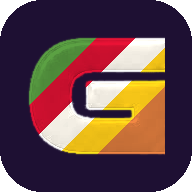
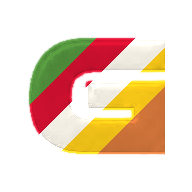
Icono de la pestaña con fondo transparente
Claude-Session: https://claude.ai/code/session_01BAWG5sSexxeV32VypvJQZo

diff --git a/donde-se-sirve.html b/donde-se-sirve.html
@@ -22,8 +22,8 @@
   <meta name="twitter:title" content="¿Dónde se sirve? · Viernes de Gusto">
   <meta name="twitter:description" content="El DJ en el centro y todos alrededor. Uno de cada dos viernes en New La Miel, Burgos.">
   <meta name="twitter:image" content="https://www.gustoexperience.es/og-image.png?v=4">
-  <link rel="icon" href="favicon-32.png?v=4" sizes="32x32" type="image/png">
-  <link rel="icon" href="icon-192.png?v=4" sizes="192x192" type="image/png">
+  <link rel="icon" href="favicon-32.png?v=5" sizes="32x32" type="image/png">
+  <link rel="icon" href="icon-192.png?v=5" sizes="192x192" type="image/png">
   <link rel="apple-touch-icon" href="apple-touch-icon.png?v=4">
   <link rel="preload" href="fonts/shrikhand-latin-400-normal.woff2" as="font" type="font/woff2" crossorigin>
   <link rel="preload" href="fonts/familjen-grotesk-latin-400-normal.woff2" as="font" type="font/woff2" crossorigin>

diff --git a/como-se-sirve.html b/como-se-sirve.html
@@ -22,8 +22,8 @@
   <meta name="twitter:title" content="Cómo se sirve · Viernes de Gusto">
   <meta name="twitter:description" content="El DJ en el centro y todos alrededor. Uno de cada dos viernes en New La Miel, Burgos.">
   <meta name="twitter:image" content="https://www.gustoexperience.es/og-image.png?v=4">
-  <link rel="icon" href="favicon-32.png?v=4" sizes="32x32" type="image/png">
-  <link rel="icon" href="icon-192.png?v=4" sizes="192x192" type="image/png">
+  <link rel="icon" href="favicon-32.png?v=5" sizes="32x32" type="image/png">
+  <link rel="icon" href="icon-192.png?v=5" sizes="192x192" type="image/png">
   <link rel="apple-touch-icon" href="apple-touch-icon.png?v=4">
   <link rel="preload" href="fonts/shrikhand-latin-400-normal.woff2" as="font" type="font/woff2" crossorigin>
   <link rel="preload" href="fonts/familjen-grotesk-latin-400-normal.woff2" as="font" type="font/woff2" crossorigin>

diff --git a/haz-tu-pedido.html b/haz-tu-pedido.html
@@ -22,8 +22,8 @@
   <meta name="twitter:title" content="Haz tu pedido · Viernes de Gusto">
   <meta name="twitter:description" content="El DJ en el centro y todos alrededor. Uno de cada dos viernes en New La Miel, Burgos.">
   <meta name="twitter:image" content="https://www.gustoexperience.es/og-image.png?v=4">
-  <link rel="icon" href="favicon-32.png?v=4" sizes="32x32" type="image/png">
-  <link rel="icon" href="icon-192.png?v=4" sizes="192x192" type="image/png">
+  <link rel="icon" href="favicon-32.png?v=5" sizes="32x32" type="image/png">
+  <link rel="icon" href="icon-192.png?v=5" sizes="192x192" type="image/png">
   <link rel="apple-touch-icon" href="apple-touch-icon.png?v=4">
   <link rel="preload" href="fonts/shrikhand-latin-400-normal.woff2" as="font" type="font/woff2" crossorigin>
   <link rel="preload" href="fonts/familjen-grotesk-latin-400-normal.woff2" as="font" type="font/woff2" crossorigin>

diff --git a/menu-del-mes.html b/menu-del-mes.html
@@ -22,8 +22,8 @@
   <meta name="twitter:title" content="Menú del mes · Viernes de Gusto">
   <meta name="twitter:description" content="El DJ en el centro y todos alrededor. Uno de cada dos viernes en New La Miel, Burgos.">
   <meta name="twitter:image" content="https://www.gustoexperience.es/og-image.png?v=4">
-  <link rel="icon" href="favicon-32.png?v=4" sizes="32x32" type="image/png">
-  <link rel="icon" href="icon-192.png?v=4" sizes="192x192" type="image/png">
+  <link rel="icon" href="favicon-32.png?v=5" sizes="32x32" type="image/png">
+  <link rel="icon" href="icon-192.png?v=5" sizes="192x192" type="image/png">
   <link rel="apple-touch-icon" href="apple-touch-icon.png?v=4">
   <link rel="preload" href="fonts/shrikhand-latin-400-normal.woff2" as="font" type="font/woff2" crossorigin>
   <link rel="preload" href="fonts/familjen-grotesk-latin-400-normal.woff2" as="font" type="font/woff2" crossorigin>

diff --git a/preguntas.html b/preguntas.html
@@ -22,8 +22,8 @@
   <meta name="twitter:title" content="Preguntas · Viernes de Gusto">
   <meta name="twitter:description" content="El DJ en el centro y todos alrededor. Uno de cada dos viernes en New La Miel, Burgos.">
   <meta name="twitter:image" content="https://www.gustoexperience.es/og-image.png?v=4">
-  <link rel="icon" href="favicon-32.png?v=4" sizes="32x32" type="image/png">
-  <link rel="icon" href="icon-192.png?v=4" sizes="192x192" type="image/png">
+  <link rel="icon" href="favicon-32.png?v=5" sizes="32x32" type="image/png">
+  <link rel="icon" href="icon-192.png?v=5" sizes="192x192" type="image/png">
   <link rel="apple-touch-icon" href="apple-touch-icon.png?v=4">
   <link rel="preload" href="fonts/shrikhand-latin-400-normal.woff2" as="font" type="font/woff2" crossorigin>
   <link rel="preload" href="fonts/familjen-grotesk-latin-400-normal.woff2" as="font" type="font/woff2" crossorigin>

diff --git a/la-carta.html b/la-carta.html
@@ -22,8 +22,8 @@
   <meta name="twitter:title" content="La Carta · Viernes de Gusto">
   <meta name="twitter:description" content="El DJ en el centro y todos alrededor. Uno de cada dos viernes en New La Miel, Burgos.">
   <meta name="twitter:image" content="https://www.gustoexperience.es/og-image.png?v=4">
-  <link rel="icon" href="favicon-32.png?v=4" sizes="32x32" type="image/png">
-  <link rel="icon" href="icon-192.png?v=4" sizes="192x192" type="image/png">
+  <link rel="icon" href="favicon-32.png?v=5" sizes="32x32" type="image/png">
+  <link rel="icon" href="icon-192.png?v=5" sizes="192x192" type="image/png">
   <link rel="apple-touch-icon" href="apple-touch-icon.png?v=4">
   <link rel="preload" href="fonts/shrikhand-latin-400-normal.woff2" as="font" type="font/woff2" crossorigin>
   <link rel="preload" href="fonts/familjen-grotesk-latin-400-normal.woff2" as="font" type="font/woff2" crossorigin>

diff --git a/index.html b/index.html
@@ -22,8 +22,8 @@
   <meta name="twitter:title" content="Viernes de Gusto · New La Miel, Burgos">
   <meta name="twitter:description" content="El DJ en el centro y todos alrededor. Uno de cada dos viernes en New La Miel, Burgos.">
   <meta name="twitter:image" content="https://www.gustoexperience.es/og-image.png?v=4">
-  <link rel="icon" href="favicon-32.png?v=4" sizes="32x32" type="image/png">
-  <link rel="icon" href="icon-192.png?v=4" sizes="192x192" type="image/png">
+  <link rel="icon" href="favicon-32.png?v=5" sizes="32x32" type="image/png">
+  <link rel="icon" href="icon-192.png?v=5" sizes="192x192" type="image/png">
   <link rel="apple-touch-icon" href="apple-touch-icon.png?v=4">
   <script type="application/ld+json">
   {
